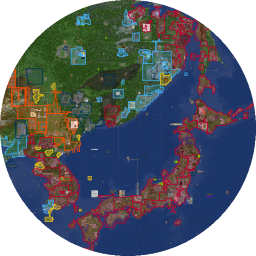
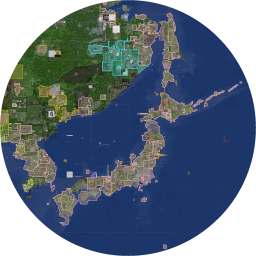
1.7 release

diff --git a/background.js b/background.js
@@ -1,13 +1,24 @@
 const encoder = new TextEncoder();
 const decoder = new TextDecoder('utf-8');
-const novaURL = 'https://raw.githubusercontent.com/3meraldK/earthmc-dynmapcolor/main/data-nova.json';
-const auroraURL = 'https://raw.githubusercontent.com/3meraldK/earthmc-dynmapcolor/main/data-aurora.json';
-const fetchAlliances = (map) => fetch(map).then(res => res.json()).catch(() => {});
-const buttonEvent = () => whatIsFetched == 'meganation' ? whatIsFetched = 'alliance' : whatIsFetched = 'meganation';
-var whatIsFetched = 'meganation';
+const novaURL = 'https://earthmc-api.herokuapp.com/api/v1/nova/alliances';
+const auroraURL = 'https://earthmc-api.herokuapp.com/api/v1/aurora/alliances';
+const fetchAlliances = (url) => fetch(url).then(res => res.json()).catch(() => {});
+const buttonEvent = () => mapMode == 'mega' ? mapMode = 'normal' : mapMode = 'mega';
+var mapMode = 'mega';
 browser.runtime.onMessage.addListener(buttonEvent);
 
-// Listens for requests.
+// Courtesy of 32Vache :)
+function calcArea(x, y, ptsNum) {
+	var area = 0;
+	var j = ptsNum - 1;
+	for (var i = 0; i < ptsNum; i++) {
+		area = area + (x[j] + x[i]) * (y[j] - y[i]);
+		j = i;
+	}
+	return (Math.abs(area / 2)) / 256;
+}
+
+// Listening for browser requests.
 browser.webRequest.onBeforeRequest.addListener(
 	function listener(details) { details.url.includes('up/world/earth/') ? onPlayerUpdate(details) : onMapUpdate(details); }, 
 	{urls: ['https://earthmc.net/map/nova/tiles/_markers_/marker_earth.json', 
@@ -17,81 +28,117 @@ browser.webRequest.onBeforeRequest.addListener(
 	['blocking']
 );
 
-// Function is fired when the marker_earth request is sent.
+// Managing the map update response.
 function onMapUpdate(details) {
-	var usedMap;
-	details.url.includes('nova') ? usedMap = 'nova' : usedMap = 'aurora';
-	const filter = browser.webRequest.filterResponseData(details.requestId);
 
-	// Get the response.
+	// Getting the response.
+	const filter = browser.webRequest.filterResponseData(details.requestId);
 	const arrayBuffer = [];
 	filter.ondata = event => arrayBuffer.push(decoder.decode(event.data, {stream: true}));
-	// Fired when response is sent.
+
+	// Modifying the response.
 	filter.onstop = () => {
-		// Decode the response.
+
 		arrayBuffer.push(decoder.decode());
 		const data = JSON.parse(arrayBuffer.join(''));
-
-		// Check if response is undefined and delete star icons.
-		if (data.sets === undefined) return;
+		if (data.sets == undefined) return;
+		
+		// Delete star icons.
 		delete data.sets["townyPlugin.markerset"].markers;
 
-		fetchAlliances(usedMap == 'nova' ? novaURL : auroraURL).then(meganations => {
+		// Iterating through every area drawn on the map.
+		Object.values(data.sets["townyPlugin.markerset"].areas).forEach(town => {
 
-			// Iterate through every town.
+			// Some variables.
+			var townTitle = town.desc.split('<br \/>')[0];
+			townTitle = townTitle.replace(/\(Shop\)$/g, '').replaceAll(/[()]/g, '').split(' ');
+			const nation = townTitle[2].replace('</span>', '');
+			const area = calcArea(town.x, town.z, town.x.length);
+			const memberList = town.desc.split('Members <span style=\"font-weight:bold\">')[1].split('</span><br />Flags')[0];
+			const memberSize = (memberList.match(/,/g) || []).length + 1;
+
+			// Removing shop areas.
+			if (town.desc.includes('(Shop) (')) {
+				town.fillopacity = 0;
+				town.opacity = 0;
+			}
+
+			// Recreating town's description.
+			town.desc = town.desc.replace('>hasUpkeep:', '>Has upkeep:').replace('>pvp:', '>PVP allowed:').replace('>mobs:', '>Mob spawning:').replace('>public:', '>Public status:').replace('>explosion:', '>Explosions:').replace('>fire:', '>Fire spread:').replace('>capital:', '>Is capital:');
+			town.desc = town.desc.replaceAll('true<', '\u2705<').replaceAll('false<', '\u26D4<');
+			town.desc = town.desc.replace('Members <span', 'Members <b>[' + memberSize + ']</b> <span');
+			town.desc = town.desc.replace('</span><br /> Members', '</span><br />Size<span style=\"font-weight:bold\"> ' + area + ' </span><br /> Members');
+
+			// Modifying esthetics of the area.
+			town.weight = 1;
+			town.opacity = 0.7;
+			if (town.color == "#3FB4FF" && town.fillcolor == "#3FB4FF") town.color = "#000000", town.fillcolor = "#000000";
+			if (nation.length < 1) {
+				town.color = '#83003F';
+				town.fillcolor = '#83003F';
+				return;
+			}
+		})
+
+		// Fetching alliances from appriopriate worlds.
+		details.url.includes('nova') ? usedMap = 'nova' : usedMap = 'aurora';
+		fetchAlliances(usedMap == 'nova' ? novaURL : auroraURL).then(alliances => {
+
 			Object.values(data.sets["townyPlugin.markerset"].areas).forEach(town => {
 
-				// Settings for every town.
-				town.weight = 1.6;
-				town.opacity = 1;
-
-				townTitle = town.desc.split('<br \/>')[0];
+				var townTitle = town.desc.split('<br \/>')[0];
 				townTitle = townTitle.replace(/\(Shop\)$/g, '').replaceAll(/[()]/g, '').split(' ');
-				const nation = townTitle[2].toLowerCase().replace('</span>', '');
-
-				// Set every town's color to default.
-				town.color = '#3FB4FF';
-				town.fillcolor = '#3FB4FF';
-				if (nation.length < 1) {
-					town.color = '#89C500';
-					town.fillcolor = '#89C500';
-					return;
-				};
-
-				// Get rid of an array and brackets.
+				const nation = townTitle[2].replace('</span>', '');
 				var meganationList = '';
 
-				// Check if town's nation is in any meganation.
+				alliances.forEach(alliance => {
 
-				meganations.forEach(meganation => {
-					if (meganation.type != whatIsFetched) return;
-					// Nation controlled by multiple meganations support.
-					if (!meganation.nations.includes(nation)) return;
-					meganationList.length < 1 ? meganationList += meganation.name : meganationList += ', ' + meganation.name;
-
-					// If yes, apply fill color (and stroke color if defined).
-					const fillColor = meganation.color[0];
-					var strokeColor = fillColor;
-					if (meganation.color.length == 2) strokeColor = meganation.color[1];
-					town.color = strokeColor;
-					town.fillcolor = fillColor;
-				});
+					// Some variables and their default values.
+					var allianceType, allianceName, allianceStrokeColor, allianceFillColor;
+					allianceType = alliance.type ?? 'mega';
+					allianceName = alliance.fullName ?? alliance.allianceName;
+					if (alliance.hasOwnProperty('colours')) {
+						allianceFillColor = alliance.colours.fill;
+						allianceStrokeColor = alliance.colours.outline;
+					} else {
+						allianceFillColor = "#000000";
+						allianceStrokeColor = "#000000";
+					}
 					
-				// Apply description.
+					if (allianceType != mapMode) return;
+					if (!alliance.nations.includes(nation)) return;
+					meganationList.length < 1 ? meganationList += allianceName : meganationList += ', ' + allianceName;
+
+					// Esthetics of alliance areas; their visuals differ from single nations and nationless towns.
+					if (!town.desc.includes('(Shop) (')) {
+						town.weight = 2.2;
+						town.opacity = 1;
+						town.color = allianceStrokeColor;
+						town.fillcolor = allianceFillColor;
+					}
+				});
+
+				// Assigning the alliance name to the town.
 				if (meganationList.length > 0) town.desc = town.desc.replace(')</span><br />', ')</span><br /> ' + 
 					'<span style=\"font-size:80%\">Part of</span> ' + 
 					'<span style=\"font-size:90%\"><b>' + meganationList + '</b></span><br />');
+				
 			});
 
-			// Send the modified response and close the filter.
+			// Sending the modified response.
 			filter.write(encoder.encode(JSON.stringify(data)));
 			filter.close();
-		})
-	};
+		}).catch((error) => {
+			console.log('Could not connect to the database! Error: ' + error);
+			filter.write(encoder.encode(JSON.stringify(data)));
+			filter.close();
+		});
+	}
 }
 
-// Fired each ~1 second when the update request is sent.
+// Managing the players' status response.
 function onPlayerUpdate(details) {
+
 	const filter = browser.webRequest.filterResponseData(details.requestId);
 	const arrayBuffer = [];
 	filter.ondata = event => arrayBuffer.push(decoder.decode(event.data, {stream: true}));
@@ -100,9 +147,9 @@ function onPlayerUpdate(details) {
 		arrayBuffer.push(decoder.decode());
 		const string = arrayBuffer.join('');
 		const data = JSON.parse(string);
-		// If response's length > 64 kB then trigger onMapUpdate(), otherwise write data to the filter
 		if (!data.currentcount) return;
+		// If response's size > 64kB, it's a map update.
 		string.length < 65536 ? filter.write(encoder.encode(JSON.stringify(data))) : onMapUpdate(details);
 		filter.close();
-	};
+	}
 }

diff --git a/README.md b/README.md
@@ -1,22 +1,19 @@
 ![Release](https://img.shields.io/github/v/release/3meraldK/earthmc-dynmapcolor) ![Repo size](https://img.shields.io/github/repo-size/3meraldK/earthmc-dynmapcolor) ![Downloads](https://img.shields.io/github/downloads/3meraldK/earthmc-dynmapcolor/total)
 
-# earthmc-dynmapcolor
-This Mozilla Firefox add-on enriches the EarthMC dynmap, i.e. colors entire meganations/alliances the same color, and more. 
+# earthmc-dynmap+
+This Firefox extension enriches the EarthMC dynmap with various features, such as coloring meganations and alliances the same color, beautifying elements of the site and more.
 
 ## Updates
-Meganation data should be maintained regularly. If you govern the meganation or alliance, and want to modify it, please contact the owner through Discord by the name 3meraldK#2137.
+Alliances data is based on EMC Toolkit database, which their team accepts requests on their [discord](https://discord.gg/AVtgkcRgFs).
 
-# Download and use
-This plugin is supported only on Mozilla Firefox due to Chromium limitations, however you may use [this userscript](https://github.com/32Vache/emc-map-colors) on Chromium browsers (MS Edge, Chrome, Opera, Brave). Installation course:
+## Download and use
+This plugin is supported only on Firefox due to Chromium limitations, however you may use [this userscript](https://github.com/32Vache/emc-map-colors) on Chromium browsers (MS Edge, Chrome, Opera, Brave). Installation course for Mozilla:
 
 1. Download the latest 'extension.zip' asset from [the release page](https://github.com/3meraldK/earthmc-dynmapcolor/releases).
-2. In the normal browser, search "about:debugging#/runtime/this-firefox" and then load an add-on via the button, by selecting the file. The add-on will be usable on a one browser session meaning that you have to repeat this step every time you reopen the browser. That is because it will likely be unsigned plugin.
-3. However if you want to permanently install the extension, you may use the Firefox Developer Edition browser.
-    1. Search "about:config", accept the prompt and search for 'xpinstall.signatures.required' and toggle the value to false.
-    2. Restart the browser.
-    3. Search "about:addons" and import the add-on from the file.
-    4. Restart the browser and ensure the add-on is installed, by searching "about:addons" again (because it may bug).
+2. Now, you can choose two browsers; Firefox allows for one-time use per session, i.e. it will be removed after you close the browser - that is because the plugin is unsigned. [Mozilla Developer Edition](https://www.mozilla.org/en-US/firefox/developer) however will pernamently keep its add-ons on the list.
+3. In the normal edition, search "about:debugging#/runtime/this-firefox" and then load an add-on via the button, by selecting the file.
+4. In the developer edition, search "about:config", then search "xpinstall.signatures.required" and set it to false. Restart the browser, search "about:addons" and import the add-on from the asset. Make sure it has been installed because sometimes it might not.
 
-# Screenshots
-![image](https://user-images.githubusercontent.com/48335651/153918902-67f8741d-323e-422e-ae39-fda503359b21.png)
-![image](https://user-images.githubusercontent.com/48335651/153919033-70b78831-7d3a-4172-87d8-a5b774968c50.png)
+## Screenshots
+![image](https://user-images.githubusercontent.com/48335651/174450062-ff2e7396-181e-4cd2-9fd6-42fe148c5767.png)
+![image](https://user-images.githubusercontent.com/48335651/174450070-42b0f815-05fd-4999-9d46-47c9adac3901.png)
